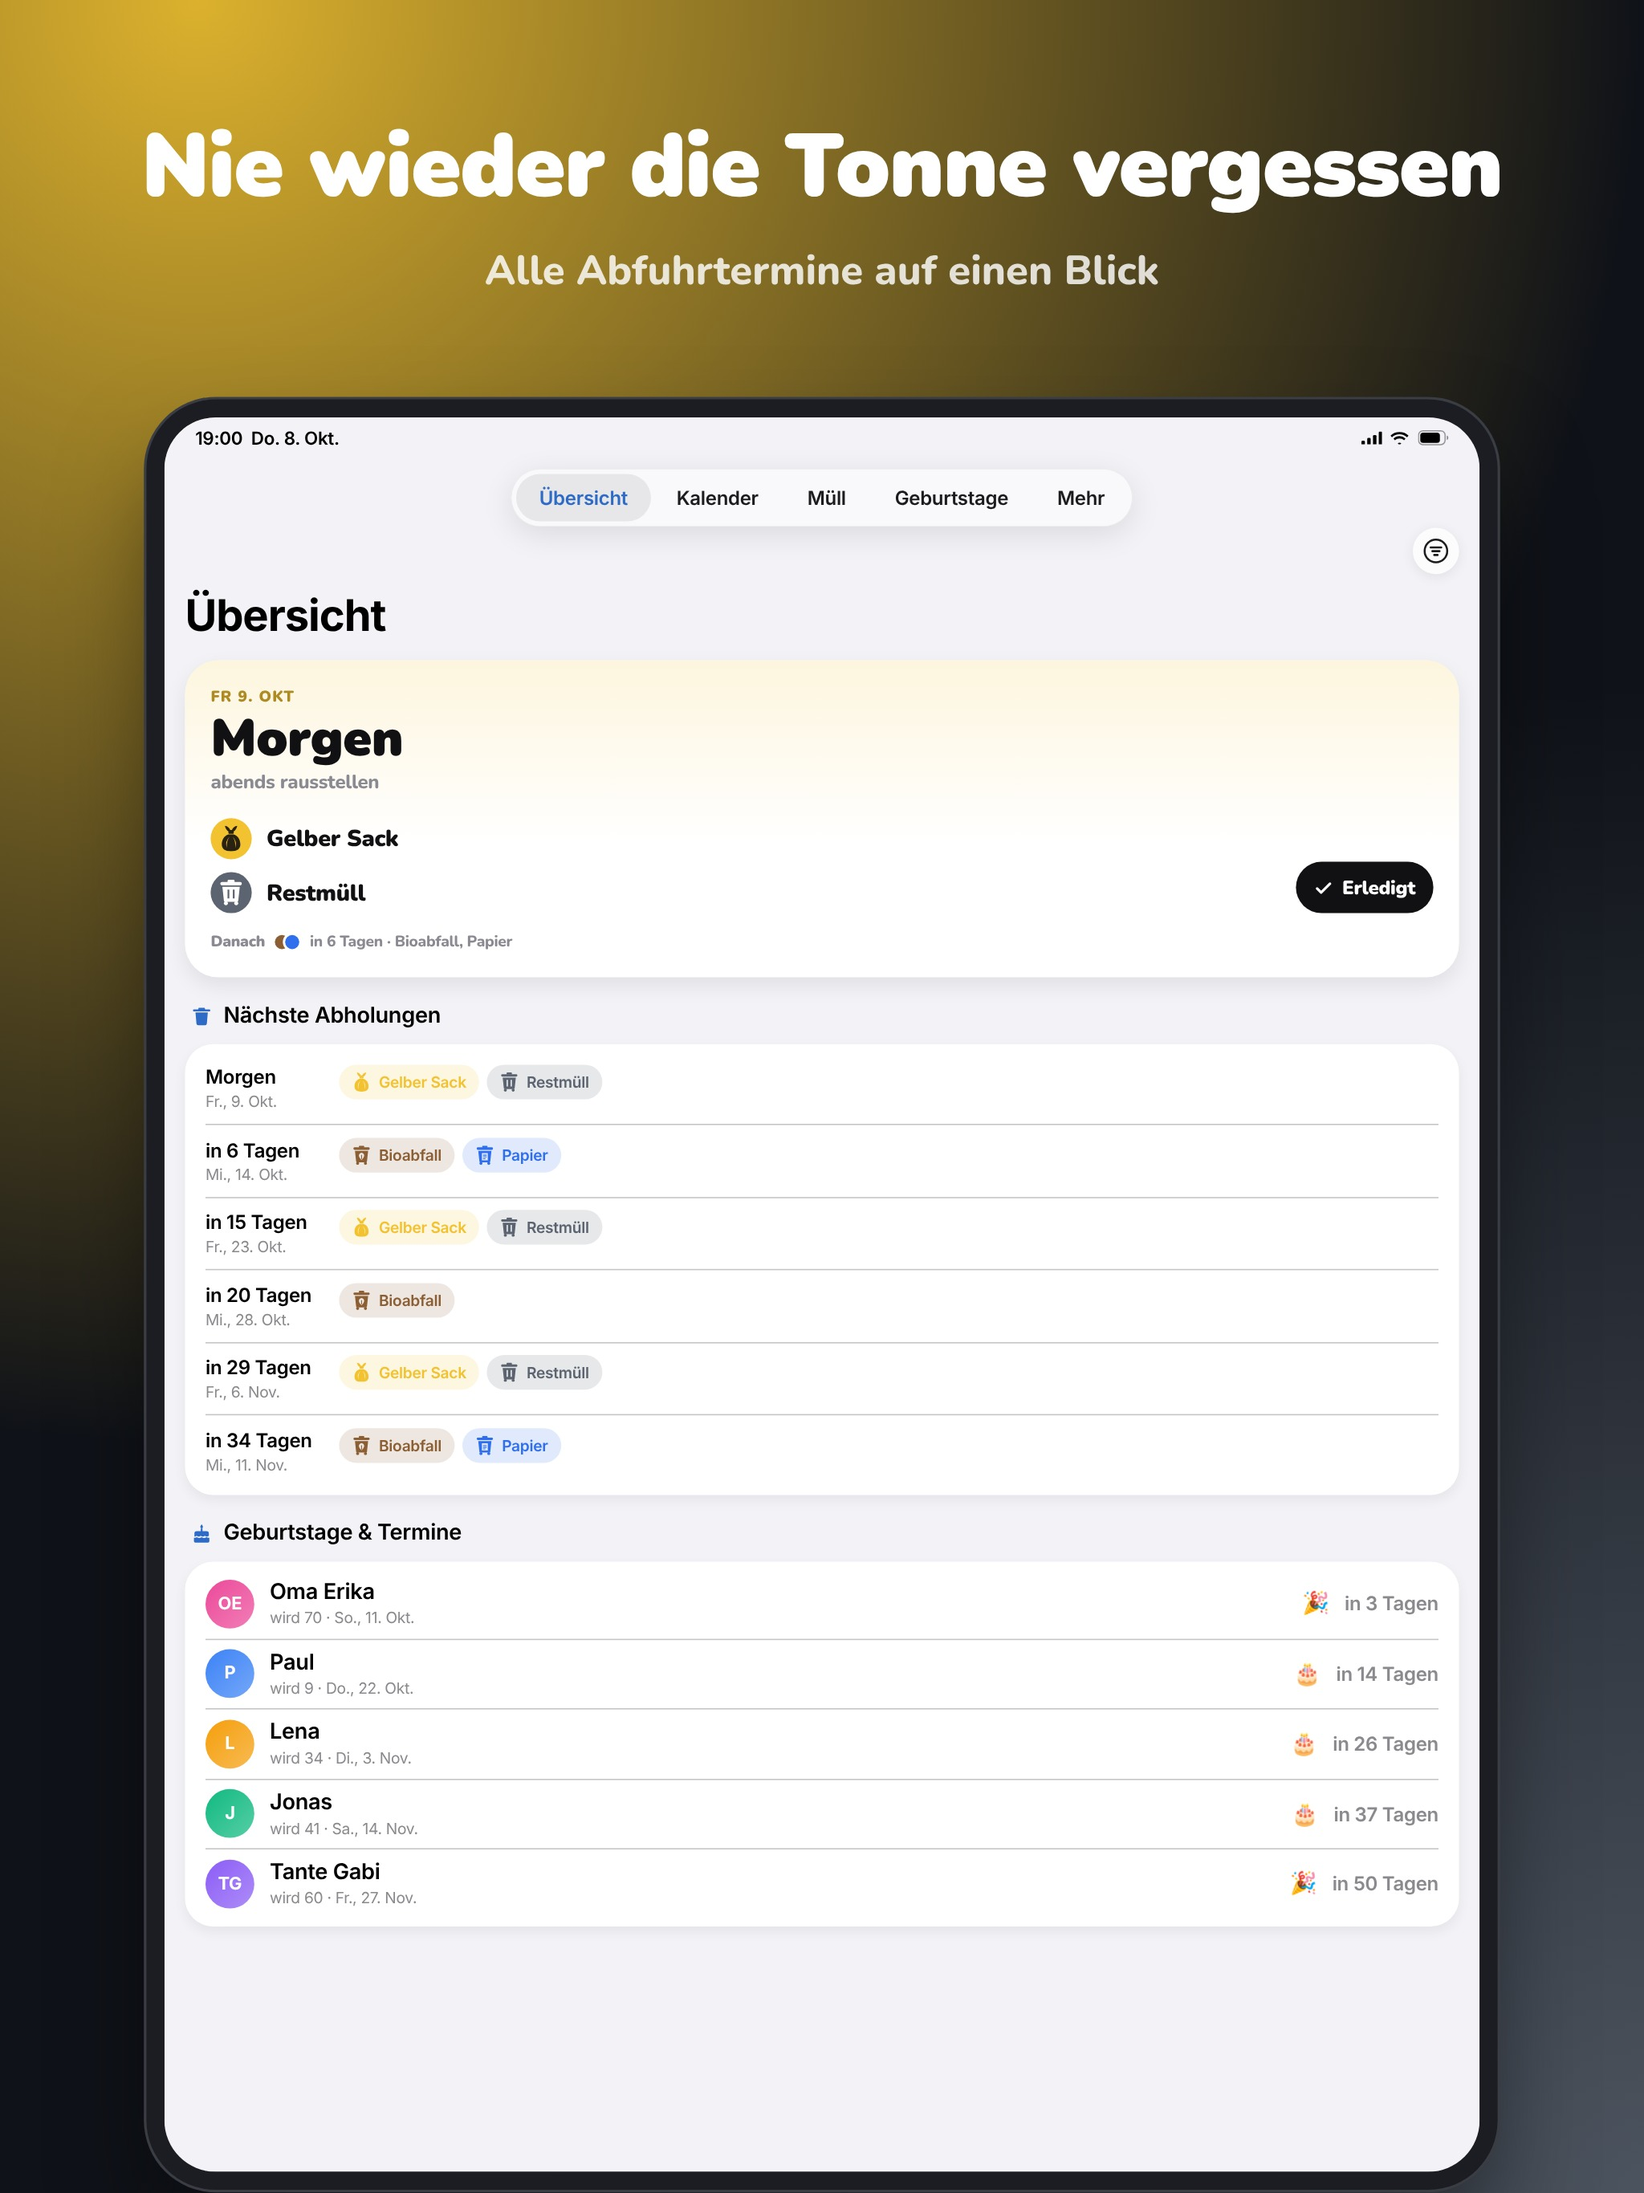
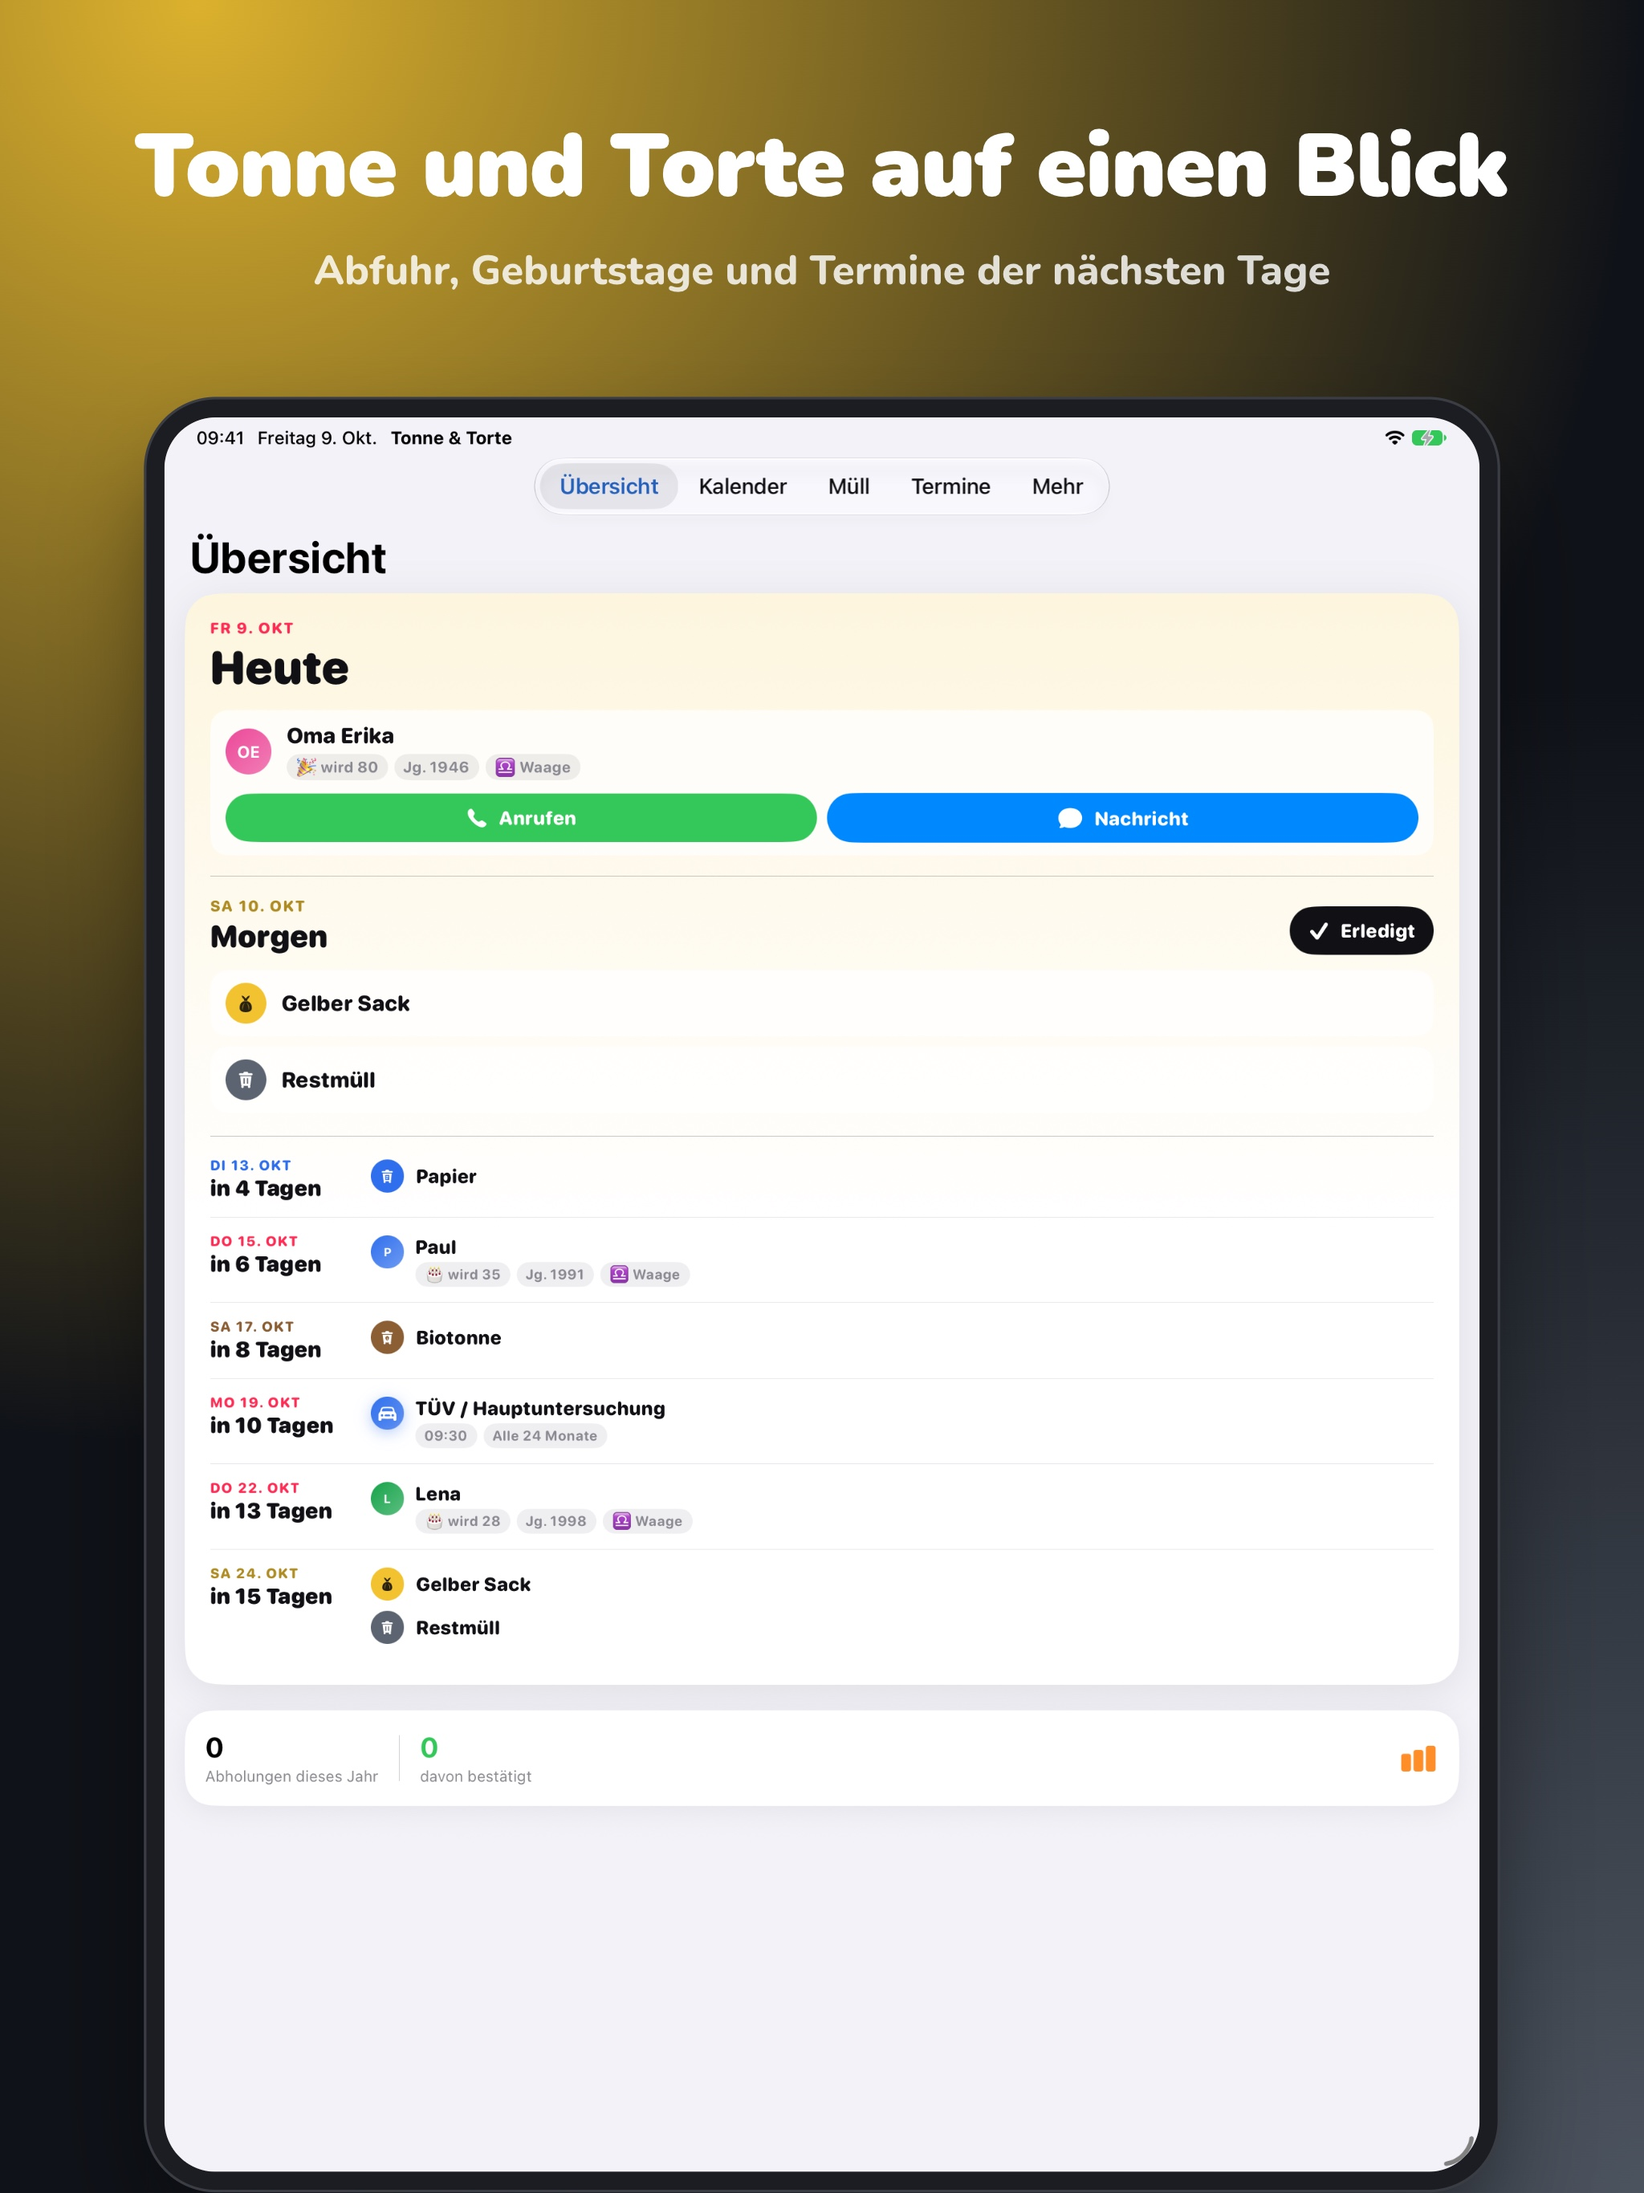
App-Store-Bilder 2.0.3: echte Screenshots der neuen Übersicht und Geburtstage im bisherigen Rahmen
Beispieldaten (-demoData, nur Debug) und testMarketingScreenshots nehmen die Bilder
im iPhone- und iPad-Simulator auf; gen.py setzt sie in den bekannten Marketing-Rahmen
(Verlauf, Überschrift). Sperrbildschirm, Abdeckung und Watch unverändert.

diff --git a/TonneUndTorte/App/TonneUndTorteApp.swift b/TonneUndTorte/App/TonneUndTorteApp.swift
@@ -14,7 +14,7 @@ struct TonneUndTorteApp: App {
             SettingsKeys.store.set(true, forKey: SettingsKeys.onboardingDone)
         }
         let container = TonneUndTorteApp.makeContainer()
-        if TonneUndTorteApp.isUITesting { TonneUndTorteApp.seedForUITests(container) }
+        if TonneUndTorteApp.isDemo { TonneUndTorteApp.seedDemo(container) } else if TonneUndTorteApp.isUITesting { TonneUndTorteApp.seedForUITests(container) }
         _model = StateObject(wrappedValue: AppModel(container: container))
         NotificationManager.shared.configure()
     }
@@ -66,6 +66,46 @@ struct TonneUndTorteApp: App {
         #else
         false
         #endif
+    }
+
+    /// Beispieldaten für die App-Store-Bilder (nur im Testmodus, Startschalter -demoData).
+    static var isDemo: Bool { isUITesting && ProcessInfo.processInfo.arguments.contains("-demoData") }
+
+    /// Schöne Beispieldaten für die App-Store-Bilder: heute ein runder Geburtstag, morgen zwei Tonnen, danach gemischt.
+    @MainActor
+    static func seedDemo(_ container: ModelContainer) {
+        let context = container.mainContext
+        func dayMonth(_ offset: Int) -> (Int, Int) {
+            let c = Calendar.current.dateComponents([.day, .month], from: Days.add(offset, to: Days.today()))
+            return (c.day ?? 1, c.month ?? 1)
+        }
+        let people: [(String, Int, Int?, String, String?)] = [
+            ("Oma Erika", 0, 1946, "#EC4899", "0171 2345678"), ("Paul", 6, 1991, "#2F6FED", nil),
+            ("Lena", 13, 1998, "#16A34A", nil), ("Jonas", 21, nil, "#F97316", nil), ("Tante Gabi", 34, 1966, "#7C3AED", nil),
+        ]
+        for (name, offset, year, color, phone) in people {
+            let (d, m) = dayMonth(offset)
+            let person = Person(name: name, day: d, month: m, year: year, colorHex: color)
+            person.phone = phone
+            if name == "Paul" { person.giftIdeas = ["Kochbuch", "Konzertkarten"] }
+            context.insert(person)
+        }
+        let location = Location(name: "Gifhorn")
+        context.insert(location)
+        let bins: [(String, WasteCategory, Int, Int)] = [("Gelber Sack", .packaging, 1, 2), ("Restmüll", .residual, 1, 2),
+                                                         ("Papier", .paper, 4, 4), ("Biotonne", .organic, 8, 2)]
+        for (index, (name, category, first, every)) in bins.enumerated() {
+            let type = WasteType(name: name, category: category, sortOrder: index)
+            type.intervalWeeks = every
+            type.anchorDate = Days.add(first, to: Days.today())
+            type.location = location
+            context.insert(type)
+        }
+        let tuev = CustomEvent(title: "TÜV / Hauptuntersuchung", symbolName: "car.fill", colorHex: "#2F6FED", startDate: Days.add(10, to: Days.today()), recurrence: .everyMonths(24))
+        tuev.timeMinutes = 9 * 60 + 30
+        context.insert(tuev)
+        context.insert(CustomEvent(title: "Rauchmelder testen", symbolName: "flame.fill", colorHex: "#DC2626", startDate: Days.add(17, to: Days.today()), recurrence: .everyMonths(6)))
+        try? context.save()
     }
 
     /// Testdaten für die Oberflächen-Tests: Geburtstag in drei Tagen (mit Jahr und Telefon), eigener Termin heute mit Uhrzeit, Papiertonne.

diff --git a/TonneUITests/TonneUITests.swift b/TonneUITests/TonneUITests.swift
@@ -8,6 +8,16 @@ final class TonneUITests: XCTestCase {
     override func setUpWithError() throws {
         continueAfterFailure = false
         app = XCUIApplication()
+        // App-Store-Bilder: nur auf Wunsch (TEST_RUNNER_TONNE_MARKETING=1), mit Beispieldaten statt Testdaten
+        if name.contains("Marketing") {
+            guard ProcessInfo.processInfo.environment["TONNE_MARKETING"] == "1" else { throw XCTSkip("nur für App-Store-Bilder") }
+            app.launchArguments = ["-uiTesting", "-demoData", "-AppleLanguages", "(de)", "-AppleLocale", "de_DE"]
+            app.launchEnvironment["TONNE_UITESTING"] = "1"
+            app.terminate(); app.launch()
+            if !app.staticTexts["Oma Erika"].firstMatch.waitForExistence(timeout: 8) { app.terminate(); app.launch() }
+            XCTAssertTrue(app.staticTexts["Oma Erika"].firstMatch.waitForExistence(timeout: 10), "App läuft nicht mit den Beispieldaten")
+            return
+        }
         app.launchArguments = ["-uiTesting", "-uiTestingSeed", "-app.onboardingDone", "YES", "-AppleLanguages", "(de)", "-AppleLocale", "de_DE"]
         app.launchEnvironment["TONNE_UITESTING"] = "1"
         app.terminate()
@@ -89,6 +99,12 @@ final class TonneUITests: XCTestCase {
         app.swipeUp(); sleep(1); snap("15-einstellungen-2")
         app.swipeUp(); sleep(1); snap("16-einstellungen-3")
         app.swipeUp(); sleep(1); snap("17-einstellungen-4")
+    }
+
+    /// Bilder für App Store Connect: Übersicht und Geburtstage, ohne Wischen/Öffnen – genau so, wie die App startet.
+    func testMarketingScreenshots() {
+        tab("Übersicht"); sleep(2); snap("marketing-overview")
+        tab("Termine"); app.buttons["Geburtstage"].firstMatch.tap(); sleep(2); snap("marketing-birthdays")
     }
 
     // MARK: - Übersicht

diff --git a/TonneUndTorte/Views/Overview/OverviewView.swift b/TonneUndTorte/Views/Overview/OverviewView.swift
@@ -100,7 +100,8 @@ struct OverviewView: View {
         NavigationStack {
             ScrollView {
                 VStack(spacing: 20) {
-                    if !notifications.isAuthorized { permissionBanner }
+                    // Für die App-Store-Bilder ohne den Hinweis „Erinnerungen sind aus“
+                    if !notifications.isAuthorized && !TonneUndTorteApp.isDemo { permissionBanner }
                     if !model.recentChanges.isEmpty { changesBanner }
                     if let bringIn { bringInCard(bringIn) } else if let todayRecap { todayRecapCard(todayRecap) }
                     nextDaysCard

diff --git a/docs/appstore/screenshots/generator/gen.py b/docs/appstore/screenshots/generator/gen.py
@@ -403,16 +403,27 @@ def watch_page(kind, w, h):
 
 # ---------------------------------------------------------------- Marketing-Rahmen
 SLIDES = [
-    ("overview", "Nie wieder die Tonne vergessen", "Alle Abfuhrtermine auf einen Blick", YELLOW, REST),
+    ("overview", "Tonne und Torte auf einen Blick", "Abfuhr, Geburtstage und Termine der nächsten Tage", YELLOW, REST),
     ("lock", "Erinnert dich am Vorabend", "„Erledigt“ direkt aus der Mitteilung", PAPER, YELLOW),
     ("coverage", "Über 380 Landkreise", "Termine direkt vom Entsorger", DONE, PAPER),
-    ("birthdays", "Geburtstage gleich mit", "Mit Alter und runden Geburtstagen", "#FF5FA2", "#FF9A4A"),
+    ("birthdays", "Geburtstage mit allem", "Alter, Jahrgang, Sternzeichen – und direkt gratulieren", "#FF5FA2", "#FF9A4A"),
 ]
 SCREENS = {"overview": overview, "coverage": coverage, "birthdays": birthdays, "lock": lockscreen}
 
 
+# Echte Screenshots aus dem Simulator (testMarketingScreenshots mit -demoData), sonst der HTML-Nachbau
+SHOTS = os.path.join(HERE, "shots")
+
+
+def real_shot(kind, ipad):
+    path = os.path.join(SHOTS, f"{'ipad' if ipad else 'iphone'}_{kind}.png")
+    return path if os.path.exists(path) else None
+
+
 def marketing(kind, title, sub, c1, c2, W, H, sw, sh, ipad):
-    screen = SCREENS[kind](sw, sh, ipad)
+    shot = real_shot(kind, ipad)
+    screen = (f'<img src="file://{shot}" style="width:{sw}px;height:{sh}px;object-fit:cover;object-position:top;display:block">'
+              if shot else SCREENS[kind](sw, sh, ipad))
     k = (W * (0.80 if ipad else 0.80)) / sw
     radius = 40 if ipad else 56
     bezel = 14 if ipad else 12

diff --git a/docs/appstore/screenshots/generator/README.md b/docs/appstore/screenshots/generator/README.md
@@ -9,3 +9,13 @@ Neu erzeugen (Linux/macOS mit Node und Playwright):
 python3 gen.py
 PW=$(npm root -g)/playwright node render.js      # Ausgabe in png/
 ```
+
+Seit 2.0.3 zeigen „Übersicht“ und „Geburtstage“ echte Screenshots aus dem Simulator (Ordner `shots/`), im selben Rahmen.
+Neu aufnehmen (iPhone 18 Pro und iPad Pro 13″, Statusleiste vorher mit `xcrun simctl status_bar … override --time 9:41` setzen):
+
+```
+TEST_RUNNER_TONNE_MARKETING=1 xcodebuild test -scheme "Tonne & Torte" -destination 'id=<Simulator>' \
+  -only-testing:TonneUITests/TonneUITests/testMarketingScreenshots -resultBundlePath mk.xcresult
+xcrun xcresulttool export attachments --path mk.xcresult --output-path mk   # marketing-*.png → shots/iphone_… bzw. ipad_…
+```
+Die Beispieldaten (Oma Erika wird heute 80 …) kommen aus `TonneUndTorteApp.seedDemo` (Startschalter `-demoData`, nur Debug).
